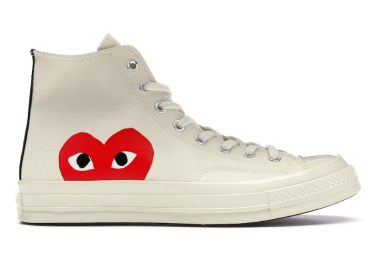
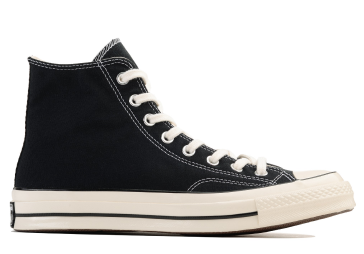
add 2 detail page

diff --git a/detail-kross-2.html b/detail-kross-2.html
@@ -1,0 +1,107 @@
+<!DOCTYPE html>
+<html lang="ru">
+
+<head>
+    <meta charset="UTF-8">
+    <meta name="viewport" content="width=device-width, initial-scale=1.0">
+    <title>Кроссы — и точка</title>
+    <link rel="stylesheet" href="style.css" />
+</head>
+
+<body>
+    <header class="header">
+        <div class="header_logo">
+            <a href="index.html">
+                <img src="./images/logo.svg" alt="логотип сайта">
+            </a>
+        </div>
+        <nav class="header_navigation">
+            <ul class="header_navigation_list">
+                <li>
+                    <a href="#" class="header_navigation_social">💬 TG</a>
+                </li>
+                <li>
+                    <a href="#" class="header_navigation_social">😊 VK</a>
+                </li>
+                <li>
+                    <a href="#" class="header_navigation_social">📺 YouTube</a>
+                </li>
+            </ul>
+        </nav>
+    </header>
+    <div class="header_line">
+    </div>
+
+    <section class="detail-content">
+        <div class="detail-content-card">
+            <div class="detail-content-card-foto">
+                <img src="./images/sneaker-big2__img.png" alt="Nike Dunk Low SP">
+            </div>
+            <div class="detail-content-card-text">
+                <h1>Converse Chuck 70 High</h1>
+                <h4>Comme des Garcons PLAY Black</h4>
+                <div class="detail-content-card-detail">
+                    <div class="detail-content-card-text-description">
+                        <p>История компании Converse началась в 1908 году, когда Маркус Миллс Конверс основал в Малдене, Массачусетс, обувную фабрику. Изначально компания специализировалась на выпуске рабочей обуви, особенно для шахтеров и строителей. В 1917 году компания была переименована в “Converse Rubber Shoe Company”, поскольку основной акцент был сделан на производство обуви из резины.<br>
+                            <br>
+                            В 1921 году Converse представила свою первую баскетбольную обувь, которая быстро стала популярной среди игроков. Это привело к тому, что в 1936 году компания решила сосредоточиться на производстве спортивной обуви. В последующие годы бренд стал ассоциироваться с баскетболом и стал одним из самых узнаваемых в мире спорта.<br>
+                            <br>
+                            В 1986 году Converse объединилась с компанией Nike, чтобы расширить свой рынок и улучшить свои продукты. С тех пор, бренд Converse стал еще более известным благодаря сотрудничеству с различными знаменитостями, спортсменами и модными дизайнерами. Сегодня Converse продолжает выпускать разнообразную спортивную обувь и одежду, а также является одним из ключевых игроков на рынке молодежной моды.
+                        </p>
+                    </div>
+                    <div class="detail-content-card-text-parameters">
+                        <h5>О кроссах</h5>
+                        <div class="parameter-line"></div>
+                        <div class="detail-content-card-text-parameter">
+                            <p class="parameter-title">Дата выхода</p>
+                            <p class="parameter-value">11/06/2022</p>
+                        </div>
+                        <div class="parameter-line"></div>
+                        <div class="detail-content-card-text-parameter">
+                            <p class="parameter-title">Розничная цена</p>
+                            <p class="parameter-value">145€</p>
+                        </div>
+                        <div class="parameter-line"></div>
+                        <div class="detail-content-card-text-parameter">
+                            <p class="parameter-title">Материалы</p>
+                            <p class="parameter-value">Текстиль 100%, резина</p>
+                        </div>
+                        <div class="parameter-line"></div>
+
+                    </div>
+                </div>
+
+            </div>
+
+        </div>
+    </section>
+
+    <footer>
+        <div class="footer">
+            <div class="footer_logo">
+                <a href="index.html">
+                    <img src="./images/logo-footer.png" />
+                </a>
+            </div>
+            <nav class="footer_navigation">
+                <ul class="footer_navigation_list">
+                    <li>
+                        <a href="#" class="footer_navigation_social">💬 TG</a>
+                    </li>
+                    <li>
+                        <a href="#" class="footer_navigation_social">😊 VK</a>
+                    </li>
+                    <li>
+                        <a href="#" class="footer_navigation_social">📺 YouTube</a>
+                    </li>
+                </ul>
+            </nav>
+        </div>
+        <div class="footer_line"></div>
+        <div>
+            <p class="copy">КРОССЫ И ТОЧКА ® 2023</p>
+        </div>
+    </footer>
+</body>
+
+</html>

diff --git a/detail-kross-1.html b/detail-kross-1.html
@@ -1,0 +1,107 @@
+<!DOCTYPE html>
+<html lang="ru">
+
+<head>
+    <meta charset="UTF-8">
+    <meta name="viewport" content="width=device-width, initial-scale=1.0">
+    <title>Кроссы — и точка</title>
+    <link rel="stylesheet" href="style.css" />
+</head>
+
+<body>
+    <header class="header">
+        <div class="header_logo">
+            <a href="index.html">
+                <img src="./images/logo.svg" alt="логотип сайта">
+            </a>
+        </div>
+        <nav class="header_navigation">
+            <ul class="header_navigation_list">
+                <li>
+                    <a href="#" class="header_navigation_social">💬 TG</a>
+                </li>
+                <li>
+                    <a href="#" class="header_navigation_social">😊 VK</a>
+                </li>
+                <li>
+                    <a href="#" class="header_navigation_social">📺 YouTube</a>
+                </li>
+            </ul>
+        </nav>
+    </header>
+    <div class="header_line">
+    </div>
+
+    <section class="detail-content">
+        <div class="detail-content-card">
+            <div class="detail-content-card-foto">
+                <img src="./images/sneaker-big1__img.png" alt="The New Balance C-ms574">
+            </div>
+            <div class="detail-content-card-text">
+                <h1>The New Balance C-ms574</h1>
+                <h4>Salehe Bembury Shark Skin</h4>
+                <div class="detail-content-card-detail">
+                    <div class="detail-content-card-text-description">
+                        <p>Компания New Balance изначально занималась производством стель и ортопедической обуви в начале 20-го века в Бостоне, США. Сегодня, New Balance — это мировой бренд, производящий спортивную одежду и обувь для активного отдыха и спорта. Кроссовки New Balance отличаются удобством, стабильностью, качеством и современным дизайном.<br>
+                            <br>
+                            Благодаря технологиям, таким как Encap и Abzorb, обувь этого бренда обеспечивает оптимальную амортизацию и поддержку стопы, делая её популярной среди спортсменов и любителей активного образа жизни. Кроме этого, New Balance заботится о внешнем виде своей продукции, предлагая разнообразие моделей и цветовых решений, от классических до ярких и стильных.<br>
+                            <br>
+                            Кроссовки New Balance предназначены для различных видов деятельности: бега, ходьбы, тренировок в зале и повседневной носки. Они сочетают в себе комфорт и функциональность, а также удовлетворяют потребности как профессиональных спортсменов, так и любителей спорта. Благодаря широкому ассортименту, каждый может выбрать подходящую для себя модель.
+                        </p>
+                    </div>
+                    <div class="detail-content-card-text-parameters">
+                        <h5>О кроссах</h5>
+                        <div class="parameter-line"></div>
+                        <div class="detail-content-card-text-parameter">
+                            <p class="parameter-title">Дата выхода</p>
+                            <p class="parameter-value">02/12/2023</p>
+                        </div>
+                        <div class="parameter-line"></div>
+                        <div class="detail-content-card-text-parameter">
+                            <p class="parameter-title">Розничная цена</p>
+                            <p class="parameter-value">250€</p>
+                        </div>
+                        <div class="parameter-line"></div>
+                        <div class="detail-content-card-text-parameter">
+                            <p class="parameter-title">Материалы</p>
+                            <p class="parameter-value">Замша 100%, резина</p>
+                        </div>
+                        <div class="parameter-line"></div>
+
+                    </div>
+                </div>
+
+            </div>
+
+        </div>
+    </section>
+
+    <footer>
+        <div class="footer">
+            <div class="footer_logo">
+                <a href="index.html">
+                    <img src="./images/logo-footer.png" />
+                </a>
+            </div>
+            <nav class="footer_navigation">
+                <ul class="footer_navigation_list">
+                    <li>
+                        <a href="#" class="footer_navigation_social">💬 TG</a>
+                    </li>
+                    <li>
+                        <a href="#" class="footer_navigation_social">😊 VK</a>
+                    </li>
+                    <li>
+                        <a href="#" class="footer_navigation_social">📺 YouTube</a>
+                    </li>
+                </ul>
+            </nav>
+        </div>
+        <div class="footer_line"></div>
+        <div>
+            <p class="copy">КРОССЫ И ТОЧКА ® 2023</p>
+        </div>
+    </footer>
+</body>
+
+</html>

diff --git a/index.html b/index.html
@@ -59,11 +59,13 @@
         </div>
       </div>
       <div class="card">
-        <img alt="Converse Chuck Taylor All Star 70 Hi" src="./images/image 6.png" class="container_image" />
-        <div class="container_text_wrap">
-          <h3 class="container_title">Converse Chuck Taylor All Star 70 Hi</h3>
-          <p class="container_text">Comme des Garcons PLAY White</p>
-        </div>
+        <a href="detail-kross-2.html">
+          <img alt="Converse Chuck Taylor All Star 70 Hi" src="./images/image 6.png" class="container_image" />
+          <div class="container_text_wrap">
+            <h3 class="container_title">Converse Chuck 70 High</h3>
+            <p class="container_text">Comme des Garcons PLAY Black</p>
+          </div>
+        </a>
       </div>
       <div class="card">
         <img alt="UGG Classic Ultra Mini Boot" src="./images/image 7.png" class="container_image" />
@@ -73,11 +75,13 @@
         </div>
       </div>
       <div class="card">
-        <img alt="New Balance 574 YURT" src="./images/image 8.png" class="container_image" />
-        <div class="container_text_wrap">
-          <h3 class="container_title">New Balance 574 YURT</h3>
-          <p class="container_text">Salehe Bembury Shark Skin</p>
-        </div>
+        <a href="detail-kross-1.html">
+          <img alt="New Balance 574 YURT" src="./images/image 8.png" class="container_image" />
+          <div class="container_text_wrap">
+            <h3 class="container_title">New Balance 574 YURT</h3>
+            <p class="container_text">Salehe Bembury Shark Skin</p>
+          </div>
+        </a>
       </div>
       <div class="card">
         <img alt="Jordan 1 Retro Low Golf"
@@ -90,14 +94,14 @@
       </div>
       <div class="card">
         <a href="detail-kross.html">
-        <img alt="Nike Dunk Low SP" 
-          src="https://sandbox-teens.practicum-team.ru/tasks/03-more-html-and-css-sprint/01-flex-sandboxes/07-training/sandbox-01/pre/images/2.png"
-          class="container_image" />
-        <div class="container_text_wrap">
-          <h3 class="container_title">Nike Dunk Low SP</h3>
-          <p class="container_text">Syracuse</p>
-        </div>
-      </a>
+          <img alt="Nike Dunk Low SP"
+            src="https://sandbox-teens.practicum-team.ru/tasks/03-more-html-and-css-sprint/01-flex-sandboxes/07-training/sandbox-01/pre/images/2.png"
+            class="container_image" />
+          <div class="container_text_wrap">
+            <h3 class="container_title">Nike Dunk Low SP</h3>
+            <p class="container_text">Syracuse</p>
+          </div>
+        </a>
       </div>
       <div class="card">
         <img alt="adidas Yeezy Foam RNR"

diff --git a/style.css b/style.css
@@ -241,7 +241,7 @@ footer {
 
 .detail-content {
   max-width: 1440px;
-  max-height: 1652px;
+  height: auto;
   background-color: #F1F1F1;
   display: flex;
   padding: 0px 150px;
@@ -265,7 +265,7 @@ footer {
 
 .detail-content-card-text {
   width: 1044px;
-  height: 860px;
+  height: auto;
   display: flex;
   flex-direction: column;
   justify-content: space-between;
